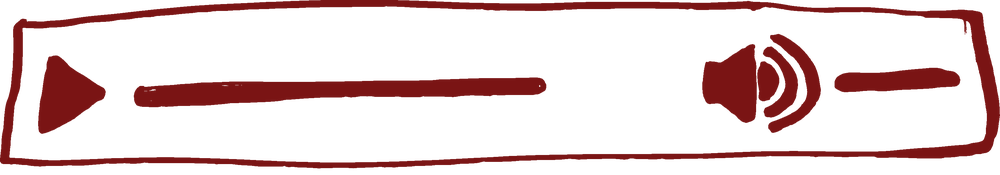
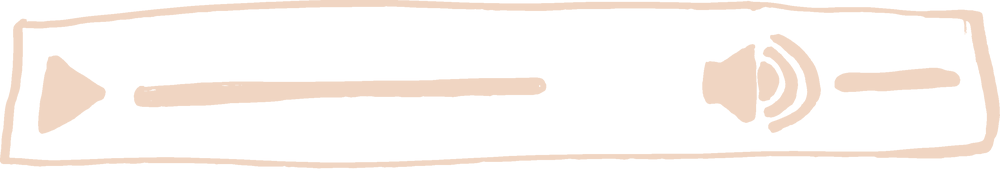
Switch hand-drawn player to cream, bring back a time counter
The rouge used on the player bar/knob/pause icon read as too harsh
against the dark album art, so it's recolored to the site's cream
(#f0d5c2), already used for track titles and the WAV-quality link in
the same area. Also restores the current/duration time readout that
was lost when the native <audio controls> were replaced by the
hand-drawn player (d4a9956) - it updates on play, drag-seek and
keyboard seek.

Changed region(s): [[0.0, 0.0, 1.0, 0.9714]]

diff --git a/audio-fr.html b/audio-fr.html
@@ -17,7 +17,7 @@
 <meta property="og:image:height" content="1623">
 <meta name="twitter:card" content="summary_large_image">
 <link rel="icon" type="image/png" href="favicon.png?v=2">
-<link rel="stylesheet" href="styles.css?v=257">
+<link rel="stylesheet" href="styles.css?v=258">
 </head>
 <body class="audio-page">
 <nav class="lang-selector" aria-label="Language">
@@ -37,31 +37,33 @@
           <div class="native-audio-track">
             <p class="native-audio-title">I — extrait</p>
             <div class="hand-player">
-              <img src="player-bar.png?v=2" alt="" class="hand-player-bar-img">
+              <img src="player-bar.png?v=3" alt="" class="hand-player-bar-img">
               <button type="button" class="hand-player-playhit" aria-label="Lire la piste I — extrait"></button>
               <span class="hand-player-pause-patch" aria-hidden="true"></span>
-              <img src="player-pause.png?v=2" alt="" class="hand-player-pause-icon">
+              <img src="player-pause.png?v=3" alt="" class="hand-player-pause-icon">
               <div class="hand-player-seek" tabindex="0" role="slider" aria-label="Avancement" aria-valuemin="0" aria-valuemax="100" aria-valuenow="0"></div>
               <div class="hand-player-volume" tabindex="0" role="slider" aria-label="Volume" aria-valuemin="0" aria-valuemax="100" aria-valuenow="100"></div>
-              <img src="player-knob.png?v=2" alt="" class="hand-player-knob hand-player-seek-knob">
-              <img src="player-knob.png?v=2" alt="" class="hand-player-knob hand-player-volume-knob">
+              <img src="player-knob.png?v=3" alt="" class="hand-player-knob hand-player-seek-knob">
+              <img src="player-knob.png?v=3" alt="" class="hand-player-knob hand-player-volume-knob">
               <audio preload="metadata" src="audio/burnin-chamber-music-i-excerpt.mp3">Votre navigateur ne prend pas en charge la lecture audio native. <a href="audio/burnin-chamber-music-i-excerpt.mp3">Télécharger le fichier</a>.</audio>
             </div>
+            <p class="hand-player-time" aria-hidden="true">0:00 / 0:00</p>
             <button type="button" class="native-audio-wav-btn" data-wav="audio/burnin-chamber-music-i-excerpt.wav">Lire en qualité WAV (43 Mo)</button>
           </div>
           <div class="native-audio-track">
             <p class="native-audio-title">II — extrait</p>
             <div class="hand-player">
-              <img src="player-bar.png?v=2" alt="" class="hand-player-bar-img">
+              <img src="player-bar.png?v=3" alt="" class="hand-player-bar-img">
               <button type="button" class="hand-player-playhit" aria-label="Lire la piste II — extrait"></button>
               <span class="hand-player-pause-patch" aria-hidden="true"></span>
-              <img src="player-pause.png?v=2" alt="" class="hand-player-pause-icon">
+              <img src="player-pause.png?v=3" alt="" class="hand-player-pause-icon">
               <div class="hand-player-seek" tabindex="0" role="slider" aria-label="Avancement" aria-valuemin="0" aria-valuemax="100" aria-valuenow="0"></div>
               <div class="hand-player-volume" tabindex="0" role="slider" aria-label="Volume" aria-valuemin="0" aria-valuemax="100" aria-valuenow="100"></div>
-              <img src="player-knob.png?v=2" alt="" class="hand-player-knob hand-player-seek-knob">
-              <img src="player-knob.png?v=2" alt="" class="hand-player-knob hand-player-volume-knob">
+              <img src="player-knob.png?v=3" alt="" class="hand-player-knob hand-player-seek-knob">
+              <img src="player-knob.png?v=3" alt="" class="hand-player-knob hand-player-volume-knob">
               <audio preload="metadata" src="audio/burnin-chamber-music-ii-excerpt.mp3">Votre navigateur ne prend pas en charge la lecture audio native. <a href="audio/burnin-chamber-music-ii-excerpt.mp3">Télécharger le fichier</a>.</audio>
             </div>
+            <p class="hand-player-time" aria-hidden="true">0:00 / 0:00</p>
             <button type="button" class="native-audio-wav-btn" data-wav="audio/burnin-chamber-music-ii-excerpt.wav">Lire en qualité WAV (61 Mo)</button>
           </div>
         </div>
@@ -79,7 +81,7 @@
   <a href="agenda-fr.html"><img src="titre-agenda.png?v=2" alt="Agenda - Comodoro Süleyman"></a>
   <a href="contact-fr.html"><img src="titre-contact.png?v=2" alt="Contact - Comodoro Süleyman"></a>
 </nav>
-<script src="hand-player.js?v=1" defer></script>
+<script src="hand-player.js?v=2" defer></script>
 <script src="audio-quality.js?v=2" defer></script>
 </body>
 </html>

diff --git a/audio-es.html b/audio-es.html
@@ -17,7 +17,7 @@
 <meta property="og:image:height" content="1623">
 <meta name="twitter:card" content="summary_large_image">
 <link rel="icon" type="image/png" href="favicon.png?v=2">
-<link rel="stylesheet" href="styles.css?v=257">
+<link rel="stylesheet" href="styles.css?v=258">
 </head>
 <body class="audio-page">
 <nav class="lang-selector" aria-label="Language">
@@ -37,31 +37,33 @@
           <div class="native-audio-track">
             <p class="native-audio-title">I — fragmento</p>
             <div class="hand-player">
-              <img src="player-bar.png?v=2" alt="" class="hand-player-bar-img">
+              <img src="player-bar.png?v=3" alt="" class="hand-player-bar-img">
               <button type="button" class="hand-player-playhit" aria-label="Reproducir pista I — fragmento"></button>
               <span class="hand-player-pause-patch" aria-hidden="true"></span>
-              <img src="player-pause.png?v=2" alt="" class="hand-player-pause-icon">
+              <img src="player-pause.png?v=3" alt="" class="hand-player-pause-icon">
               <div class="hand-player-seek" tabindex="0" role="slider" aria-label="Avance" aria-valuemin="0" aria-valuemax="100" aria-valuenow="0"></div>
               <div class="hand-player-volume" tabindex="0" role="slider" aria-label="Volumen" aria-valuemin="0" aria-valuemax="100" aria-valuenow="100"></div>
-              <img src="player-knob.png?v=2" alt="" class="hand-player-knob hand-player-seek-knob">
-              <img src="player-knob.png?v=2" alt="" class="hand-player-knob hand-player-volume-knob">
+              <img src="player-knob.png?v=3" alt="" class="hand-player-knob hand-player-seek-knob">
+              <img src="player-knob.png?v=3" alt="" class="hand-player-knob hand-player-volume-knob">
               <audio preload="metadata" src="audio/burnin-chamber-music-i-excerpt.mp3">Tu navegador no admite la reproducción de audio nativa. <a href="audio/burnin-chamber-music-i-excerpt.mp3">Descargar el archivo</a>.</audio>
             </div>
+            <p class="hand-player-time" aria-hidden="true">0:00 / 0:00</p>
             <button type="button" class="native-audio-wav-btn" data-wav="audio/burnin-chamber-music-i-excerpt.wav">Reproducir en calidad WAV (43 MB)</button>
           </div>
           <div class="native-audio-track">
             <p class="native-audio-title">II — fragmento</p>
             <div class="hand-player">
-              <img src="player-bar.png?v=2" alt="" class="hand-player-bar-img">
+              <img src="player-bar.png?v=3" alt="" class="hand-player-bar-img">
               <button type="button" class="hand-player-playhit" aria-label="Reproducir pista II — fragmento"></button>
               <span class="hand-player-pause-patch" aria-hidden="true"></span>
-              <img src="player-pause.png?v=2" alt="" class="hand-player-pause-icon">
+              <img src="player-pause.png?v=3" alt="" class="hand-player-pause-icon">
               <div class="hand-player-seek" tabindex="0" role="slider" aria-label="Avance" aria-valuemin="0" aria-valuemax="100" aria-valuenow="0"></div>
               <div class="hand-player-volume" tabindex="0" role="slider" aria-label="Volumen" aria-valuemin="0" aria-valuemax="100" aria-valuenow="100"></div>
-              <img src="player-knob.png?v=2" alt="" class="hand-player-knob hand-player-seek-knob">
-              <img src="player-knob.png?v=2" alt="" class="hand-player-knob hand-player-volume-knob">
+              <img src="player-knob.png?v=3" alt="" class="hand-player-knob hand-player-seek-knob">
+              <img src="player-knob.png?v=3" alt="" class="hand-player-knob hand-player-volume-knob">
               <audio preload="metadata" src="audio/burnin-chamber-music-ii-excerpt.mp3">Tu navegador no admite la reproducción de audio nativa. <a href="audio/burnin-chamber-music-ii-excerpt.mp3">Descargar el archivo</a>.</audio>
             </div>
+            <p class="hand-player-time" aria-hidden="true">0:00 / 0:00</p>
             <button type="button" class="native-audio-wav-btn" data-wav="audio/burnin-chamber-music-ii-excerpt.wav">Reproducir en calidad WAV (61 MB)</button>
           </div>
         </div>
@@ -79,7 +81,7 @@
   <a href="agenda-es.html"><img src="titre-agenda.png?v=2" alt="Agenda - Comodoro Süleyman"></a>
   <a href="contact-es.html"><img src="titre-contact.png?v=2" alt="Contact - Comodoro Süleyman"></a>
 </nav>
-<script src="hand-player.js?v=1" defer></script>
+<script src="hand-player.js?v=2" defer></script>
 <script src="audio-quality.js?v=2" defer></script>
 </body>
 </html>

diff --git a/audio-ro.html b/audio-ro.html
@@ -17,7 +17,7 @@
 <meta property="og:image:height" content="1623">
 <meta name="twitter:card" content="summary_large_image">
 <link rel="icon" type="image/png" href="favicon.png?v=2">
-<link rel="stylesheet" href="styles.css?v=257">
+<link rel="stylesheet" href="styles.css?v=258">
 </head>
 <body class="audio-page">
 <nav class="lang-selector" aria-label="Language">
@@ -37,31 +37,33 @@
           <div class="native-audio-track">
             <p class="native-audio-title">I — extras</p>
             <div class="hand-player">
-              <img src="player-bar.png?v=2" alt="" class="hand-player-bar-img">
+              <img src="player-bar.png?v=3" alt="" class="hand-player-bar-img">
               <button type="button" class="hand-player-playhit" aria-label="Redă piesa I — extras"></button>
               <span class="hand-player-pause-patch" aria-hidden="true"></span>
-              <img src="player-pause.png?v=2" alt="" class="hand-player-pause-icon">
+              <img src="player-pause.png?v=3" alt="" class="hand-player-pause-icon">
               <div class="hand-player-seek" tabindex="0" role="slider" aria-label="Progres" aria-valuemin="0" aria-valuemax="100" aria-valuenow="0"></div>
               <div class="hand-player-volume" tabindex="0" role="slider" aria-label="Volum" aria-valuemin="0" aria-valuemax="100" aria-valuenow="100"></div>
-              <img src="player-knob.png?v=2" alt="" class="hand-player-knob hand-player-seek-knob">
-              <img src="player-knob.png?v=2" alt="" class="hand-player-knob hand-player-volume-knob">
+              <img src="player-knob.png?v=3" alt="" class="hand-player-knob hand-player-seek-knob">
+              <img src="player-knob.png?v=3" alt="" class="hand-player-knob hand-player-volume-knob">
               <audio preload="metadata" src="audio/burnin-chamber-music-i-excerpt.mp3">Browserul tău nu acceptă redarea audio nativă. <a href="audio/burnin-chamber-music-i-excerpt.mp3">Descarcă fișierul</a>.</audio>
             </div>
+            <p class="hand-player-time" aria-hidden="true">0:00 / 0:00</p>
             <button type="button" class="native-audio-wav-btn" data-wav="audio/burnin-chamber-music-i-excerpt.wav">Redă în calitate WAV (43 MB)</button>
           </div>
           <div class="native-audio-track">
             <p class="native-audio-title">II — extras</p>
             <div class="hand-player">
-              <img src="player-bar.png?v=2" alt="" class="hand-player-bar-img">
+              <img src="player-bar.png?v=3" alt="" class="hand-player-bar-img">
               <button type="button" class="hand-player-playhit" aria-label="Redă piesa II — extras"></button>
               <span class="hand-player-pause-patch" aria-hidden="true"></span>
-              <img src="player-pause.png?v=2" alt="" class="hand-player-pause-icon">
+              <img src="player-pause.png?v=3" alt="" class="hand-player-pause-icon">
               <div class="hand-player-seek" tabindex="0" role="slider" aria-label="Progres" aria-valuemin="0" aria-valuemax="100" aria-valuenow="0"></div>
               <div class="hand-player-volume" tabindex="0" role="slider" aria-label="Volum" aria-valuemin="0" aria-valuemax="100" aria-valuenow="100"></div>
-              <img src="player-knob.png?v=2" alt="" class="hand-player-knob hand-player-seek-knob">
-              <img src="player-knob.png?v=2" alt="" class="hand-player-knob hand-player-volume-knob">
+              <img src="player-knob.png?v=3" alt="" class="hand-player-knob hand-player-seek-knob">
+              <img src="player-knob.png?v=3" alt="" class="hand-player-knob hand-player-volume-knob">
               <audio preload="metadata" src="audio/burnin-chamber-music-ii-excerpt.mp3">Browserul tău nu acceptă redarea audio nativă. <a href="audio/burnin-chamber-music-ii-excerpt.mp3">Descarcă fișierul</a>.</audio>
             </div>
+            <p class="hand-player-time" aria-hidden="true">0:00 / 0:00</p>
             <button type="button" class="native-audio-wav-btn" data-wav="audio/burnin-chamber-music-ii-excerpt.wav">Redă în calitate WAV (61 MB)</button>
           </div>
         </div>
@@ -79,7 +81,7 @@
   <a href="agenda-ro.html"><img src="titre-agenda.png?v=2" alt="Agenda - Comodoro Süleyman"></a>
   <a href="contact-ro.html"><img src="titre-contact.png?v=2" alt="Contact - Comodoro Süleyman"></a>
 </nav>
-<script src="hand-player.js?v=1" defer></script>
+<script src="hand-player.js?v=2" defer></script>
 <script src="audio-quality.js?v=2" defer></script>
 </body>
 </html>

diff --git a/audio.html b/audio.html
@@ -17,7 +17,7 @@
 <meta property="og:image:height" content="1623">
 <meta name="twitter:card" content="summary_large_image">
 <link rel="icon" type="image/png" href="favicon.png?v=2">
-<link rel="stylesheet" href="styles.css?v=257">
+<link rel="stylesheet" href="styles.css?v=258">
 </head>
 <body class="audio-page">
 <nav class="lang-selector" aria-label="Language">
@@ -37,31 +37,33 @@
           <div class="native-audio-track">
             <p class="native-audio-title">I — excerpt</p>
             <div class="hand-player">
-              <img src="player-bar.png?v=2" alt="" class="hand-player-bar-img">
+              <img src="player-bar.png?v=3" alt="" class="hand-player-bar-img">
               <button type="button" class="hand-player-playhit" aria-label="Play track I — excerpt"></button>
               <span class="hand-player-pause-patch" aria-hidden="true"></span>
-              <img src="player-pause.png?v=2" alt="" class="hand-player-pause-icon">
+              <img src="player-pause.png?v=3" alt="" class="hand-player-pause-icon">
               <div class="hand-player-seek" tabindex="0" role="slider" aria-label="Seek" aria-valuemin="0" aria-valuemax="100" aria-valuenow="0"></div>
               <div class="hand-player-volume" tabindex="0" role="slider" aria-label="Volume" aria-valuemin="0" aria-valuemax="100" aria-valuenow="100"></div>
-              <img src="player-knob.png?v=2" alt="" class="hand-player-knob hand-player-seek-knob">
-              <img src="player-knob.png?v=2" alt="" class="hand-player-knob hand-player-volume-knob">
+              <img src="player-knob.png?v=3" alt="" class="hand-player-knob hand-player-seek-knob">
+              <img src="player-knob.png?v=3" alt="" class="hand-player-knob hand-player-volume-knob">
               <audio preload="metadata" src="audio/burnin-chamber-music-i-excerpt.mp3">Your browser doesn't support native audio playback. <a href="audio/burnin-chamber-music-i-excerpt.mp3">Download the file</a>.</audio>
             </div>
+            <p class="hand-player-time" aria-hidden="true">0:00 / 0:00</p>
             <button type="button" class="native-audio-wav-btn" data-wav="audio/burnin-chamber-music-i-excerpt.wav">Play in WAV quality (43 MB)</button>
           </div>
           <div class="native-audio-track">
             <p class="native-audio-title">II — excerpt</p>
             <div class="hand-player">
-              <img src="player-bar.png?v=2" alt="" class="hand-player-bar-img">
+              <img src="player-bar.png?v=3" alt="" class="hand-player-bar-img">
               <button type="button" class="hand-player-playhit" aria-label="Play track II — excerpt"></button>
               <span class="hand-player-pause-patch" aria-hidden="true"></span>
-              <img src="player-pause.png?v=2" alt="" class="hand-player-pause-icon">
+              <img src="player-pause.png?v=3" alt="" class="hand-player-pause-icon">
               <div class="hand-player-seek" tabindex="0" role="slider" aria-label="Seek" aria-valuemin="0" aria-valuemax="100" aria-valuenow="0"></div>
               <div class="hand-player-volume" tabindex="0" role="slider" aria-label="Volume" aria-valuemin="0" aria-valuemax="100" aria-valuenow="100"></div>
-              <img src="player-knob.png?v=2" alt="" class="hand-player-knob hand-player-seek-knob">
-              <img src="player-knob.png?v=2" alt="" class="hand-player-knob hand-player-volume-knob">
+              <img src="player-knob.png?v=3" alt="" class="hand-player-knob hand-player-seek-knob">
+              <img src="player-knob.png?v=3" alt="" class="hand-player-knob hand-player-volume-knob">
               <audio preload="metadata" src="audio/burnin-chamber-music-ii-excerpt.mp3">Your browser doesn't support native audio playback. <a href="audio/burnin-chamber-music-ii-excerpt.mp3">Download the file</a>.</audio>
             </div>
+            <p class="hand-player-time" aria-hidden="true">0:00 / 0:00</p>
             <button type="button" class="native-audio-wav-btn" data-wav="audio/burnin-chamber-music-ii-excerpt.wav">Play in WAV quality (61 MB)</button>
           </div>
         </div>
@@ -79,7 +81,7 @@
   <a href="agenda.html"><img src="titre-agenda.png?v=2" alt="Agenda - Comodoro Süleyman"></a>
   <a href="contact.html"><img src="titre-contact.png?v=2" alt="Contact - Comodoro Süleyman"></a>
 </nav>
-<script src="hand-player.js?v=1" defer></script>
+<script src="hand-player.js?v=2" defer></script>
 <script src="audio-quality.js?v=2" defer></script>
 </body>
 </html>

diff --git a/hand-player.js b/hand-player.js
@@ -1,6 +1,13 @@
 (function () {
   function clamp(v, min, max) { return Math.min(max, Math.max(min, v)); }
 
+  function formatTime(s) {
+    if (!isFinite(s) || s < 0) s = 0;
+    var m = Math.floor(s / 60);
+    var sec = Math.floor(s % 60);
+    return m + ':' + (sec < 10 ? '0' : '') + sec;
+  }
+
   function ratioFromPointer(e, track) {
     var rect = track.getBoundingClientRect();
     var x = (e.touches ? e.touches[0].clientX : e.clientX) - rect.left;
@@ -45,8 +52,16 @@
     var seekKnob = player.querySelector('.hand-player-seek-knob');
     var volTrack = player.querySelector('.hand-player-volume');
     var volKnob = player.querySelector('.hand-player-volume-knob');
+    var timeDisplay = player.parentElement.querySelector('.hand-player-time');
     var seekPct = trackPercents(seekTrack, player);
     var volPct = trackPercents(volTrack, player);
+
+    function updateTimeDisplay() {
+      if (!timeDisplay) return;
+      timeDisplay.textContent = formatTime(audio.currentTime) + ' / ' + formatTime(audio.duration);
+    }
+    updateTimeDisplay();
+    audio.addEventListener('loadedmetadata', updateTimeDisplay);
 
     function setSeekKnob(ratio) {
       seekKnob.style.left = (seekPct.left + ratio * seekPct.width) + '%';
@@ -67,8 +82,9 @@
 
     audio.addEventListener('timeupdate', function () {
       if (audio.duration) setSeekKnob(audio.currentTime / audio.duration);
+      updateTimeDisplay();
     });
-    audio.addEventListener('ended', function () { setSeekKnob(0); });
+    audio.addEventListener('ended', function () { setSeekKnob(0); updateTimeDisplay(); });
 
     setupDraggable(seekTrack, seekKnob, function (ratio) {
       // preload="metadata" fait déjà connaître la durée dès le chargement
@@ -78,6 +94,7 @@
       if (!audio.duration) { audio.load(); return; }
       audio.currentTime = ratio * audio.duration;
       setSeekKnob(ratio);
+      updateTimeDisplay();
     });
     setupDraggable(volTrack, volKnob, function (ratio) {
       audio.volume = ratio;
@@ -89,6 +106,7 @@
       var step = audio.duration * 0.02;
       if (e.key === 'ArrowLeft') { audio.currentTime = clamp(audio.currentTime - step, 0, audio.duration); setSeekKnob(audio.currentTime / audio.duration); }
       else if (e.key === 'ArrowRight') { audio.currentTime = clamp(audio.currentTime + step, 0, audio.duration); setSeekKnob(audio.currentTime / audio.duration); }
+      updateTimeDisplay();
     });
     volTrack.addEventListener('keydown', function (e) {
       if (e.key === 'ArrowLeft') { audio.volume = clamp(audio.volume - 0.05, 0, 1); setVolKnob(audio.volume); }

diff --git a/styles.css b/styles.css
@@ -371,6 +371,7 @@ nav.menu a:hover, nav.menu a:focus-visible { opacity: .6; }
   transform: translate(-50%, -50%); pointer-events: none;
 }
 .hand-player-volume-knob { top: 45.7%; }
+.hand-player-time { margin: .1rem 0 0; font-family: Georgia, serif; color: #f0d5c2; font-size: clamp(.68rem, 2.4vw, .8rem); text-align: center; opacity: .85; }
 @media (max-width: 640px) {
   /* Espagnol ("fragmento") et roumain ("extras") sont plus longs que
      "excerpt"/"extrait" : ce titre plus petit évite le retour à la ligne

diff --git a/mentions-legales-ro.html b/mentions-legales-ro.html
@@ -13,7 +13,7 @@
 <meta property="og:description" content="Mențiuni legale și politica de confidențialitate a site-ului Comodoro Süleyman.">
 <meta property="og:url" content="https://comodorosuleyman.com/mentions-legales-ro.html">
 <link rel="icon" type="image/png" href="favicon.png?v=2">
-<link rel="stylesheet" href="styles.css?v=257">
+<link rel="stylesheet" href="styles.css?v=258">
 </head>
 <body><main class="argumentum-page legal-page">
   <h1>Mențiuni legale</h1>

diff --git a/mentions-legales-fr.html b/mentions-legales-fr.html
@@ -13,7 +13,7 @@
 <meta property="og:description" content="Mentions légales et politique de confidentialité du site Comodoro Süleyman.">
 <meta property="og:url" content="https://comodorosuleyman.com/mentions-legales-fr.html">
 <link rel="icon" type="image/png" href="favicon.png?v=2">
-<link rel="stylesheet" href="styles.css?v=257">
+<link rel="stylesheet" href="styles.css?v=258">
 </head>
 <body><main class="argumentum-page legal-page">
   <h1>Mentions légales</h1>

diff --git a/mentions-legales.html b/mentions-legales.html
@@ -13,7 +13,7 @@
 <meta property="og:description" content="Legal notice and privacy information for the Comodoro Süleyman website.">
 <meta property="og:url" content="https://comodorosuleyman.com/mentions-legales.html">
 <link rel="icon" type="image/png" href="favicon.png?v=2">
-<link rel="stylesheet" href="styles.css?v=257">
+<link rel="stylesheet" href="styles.css?v=258">
 </head>
 <body><main class="argumentum-page legal-page">
   <h1>Legal Notice</h1>

diff --git a/mentions-legales-es.html b/mentions-legales-es.html
@@ -13,7 +13,7 @@
 <meta property="og:description" content="Aviso legal y política de privacidad del sitio Comodoro Süleyman.">
 <meta property="og:url" content="https://comodorosuleyman.com/mentions-legales-es.html">
 <link rel="icon" type="image/png" href="favicon.png?v=2">
-<link rel="stylesheet" href="styles.css?v=257">
+<link rel="stylesheet" href="styles.css?v=258">
 </head>
 <body><main class="argumentum-page legal-page">
   <h1>Aviso legal</h1>

diff --git a/comodoro-es.html b/comodoro-es.html
@@ -17,7 +17,7 @@
 <meta property="og:image:height" content="1623">
 <meta name="twitter:card" content="summary_large_image">
 <link rel="icon" type="image/png" href="favicon.png?v=2">
-<link rel="stylesheet" href="styles.css?v=257">
+<link rel="stylesheet" href="styles.css?v=258">
 </head>
 <body class="comodoro-page">
 <nav class="lang-selector" aria-label="Language">

diff --git a/comodoro-fr.html b/comodoro-fr.html
@@ -17,7 +17,7 @@
 <meta property="og:image:height" content="1623">
 <meta name="twitter:card" content="summary_large_image">
 <link rel="icon" type="image/png" href="favicon.png?v=2">
-<link rel="stylesheet" href="styles.css?v=257">
+<link rel="stylesheet" href="styles.css?v=258">
 </head>
 <body class="comodoro-page">
 <nav class="lang-selector" aria-label="Language">
